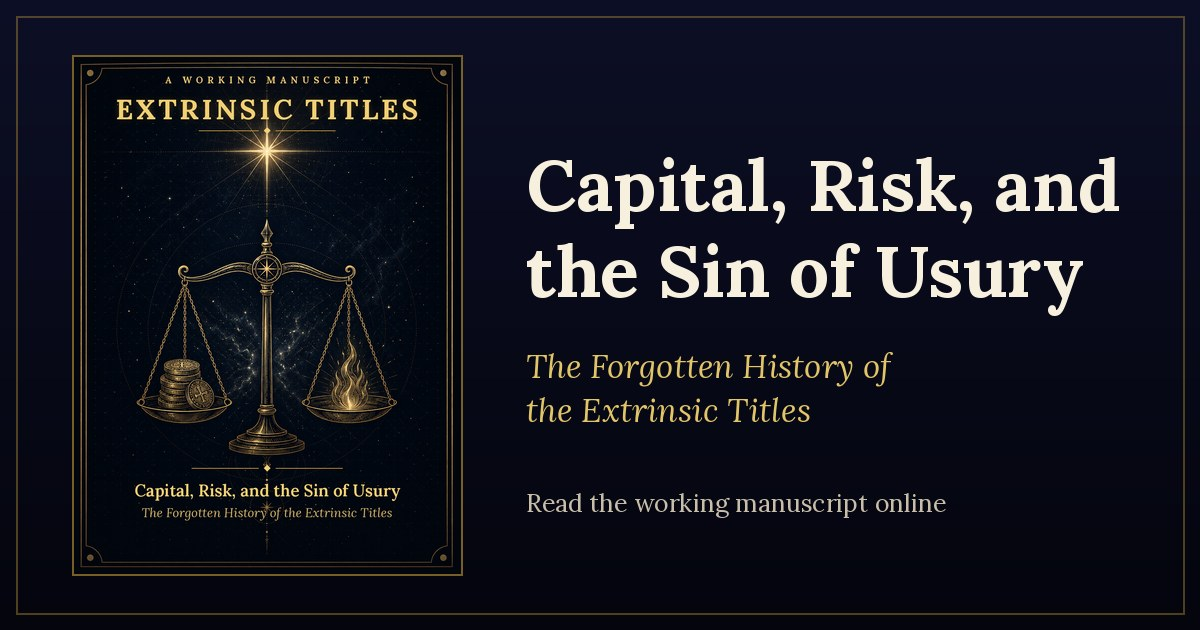
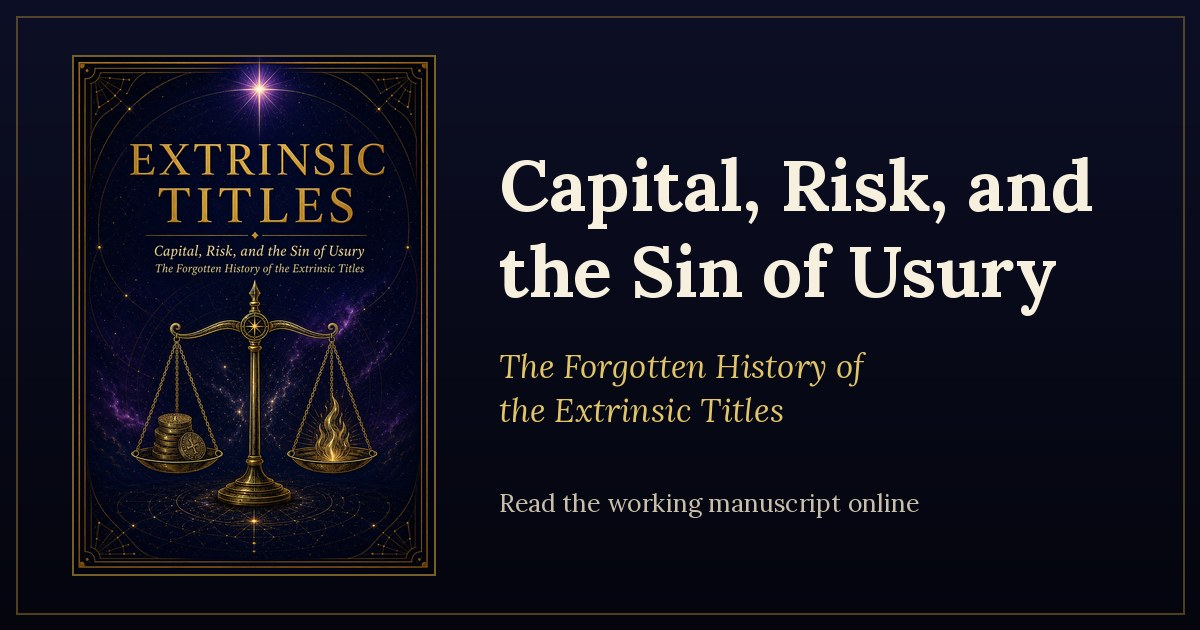
Use the finished ChatGPT cover art
Replace the composited cover with a finished ChatGPT-generated cover (title
baked in, correct wording) in the NEC house style: the scales emblem beneath
'Extrinsic Titles' and the subtitle. Retire the typeset pipeline
(tools/title_cover.py + the raw art) now that the cover is a single finished
image like the Capital Without Usury cover; regenerate the Open Graph card;
update the README cover note.

Changed region(s): [[0.0617, 0.0905, 0.9558, 0.9048]]

diff --git a/README.md b/README.md
@@ -45,12 +45,9 @@ The converter reads the per-unit drafts in reading order, reads the Part divider
 
 ## Cover art
 
-`attached_assets/extrinsic-titles-cover.png` is the cover (1086 x 1448 px, installed 15 Jul 2026): a gold-on-navy scales-of-justice emblem (coins weighed against a flame) with the title set on top in glowing gold serif, in the NEC house style. It is built in two layers so the lettering stays crisp rather than AI-garbled:
+`attached_assets/extrinsic-titles-cover.png` is the cover (portrait, installed 15 Jul 2026): a finished gold-on-navy piece in the NEC house style, a scales-of-justice emblem (coins weighed against a flame) beneath the title "Extrinsic Titles" and the subtitle, generated whole (title baked in) from the ChatGPT prompt in `COVER_PROMPT.md`.
 
-- `attached_assets/extrinsic-titles-cover-art.png` is the raw, text-free illustration (from the ChatGPT prompt in `COVER_PROMPT.md`).
-- `tools/title_cover.py` typesets the title, subtitle, and "A Working Manuscript" tag onto that art and writes `extrinsic-titles-cover.png`.
-
-To change the art: replace `extrinsic-titles-cover-art.png` (portrait, about 1086 x 1448 px), then run `python3 tools/title_cover.py` and `python3 tools/make_placeholder_art.py --og-only` (refreshes `opengraph.jpg`), commit, and push. To change the title wording, edit the constants at the top of `tools/title_cover.py`. No app code change is needed. `tools/make_placeholder_art.py` (the original typographic placeholder, still the Open Graph card builder) is kept for reference.
+To swap in a new version later: overwrite that file (same filename; portrait, roughly 3:4), run `python3 tools/make_placeholder_art.py --og-only` to refresh the social-share card (`opengraph.jpg`), commit, and push. No app code change is needed. `tools/make_placeholder_art.py` (which generated the original typographic placeholder and still builds the Open Graph card) is kept for reference.
 
 ## Repo layout
 